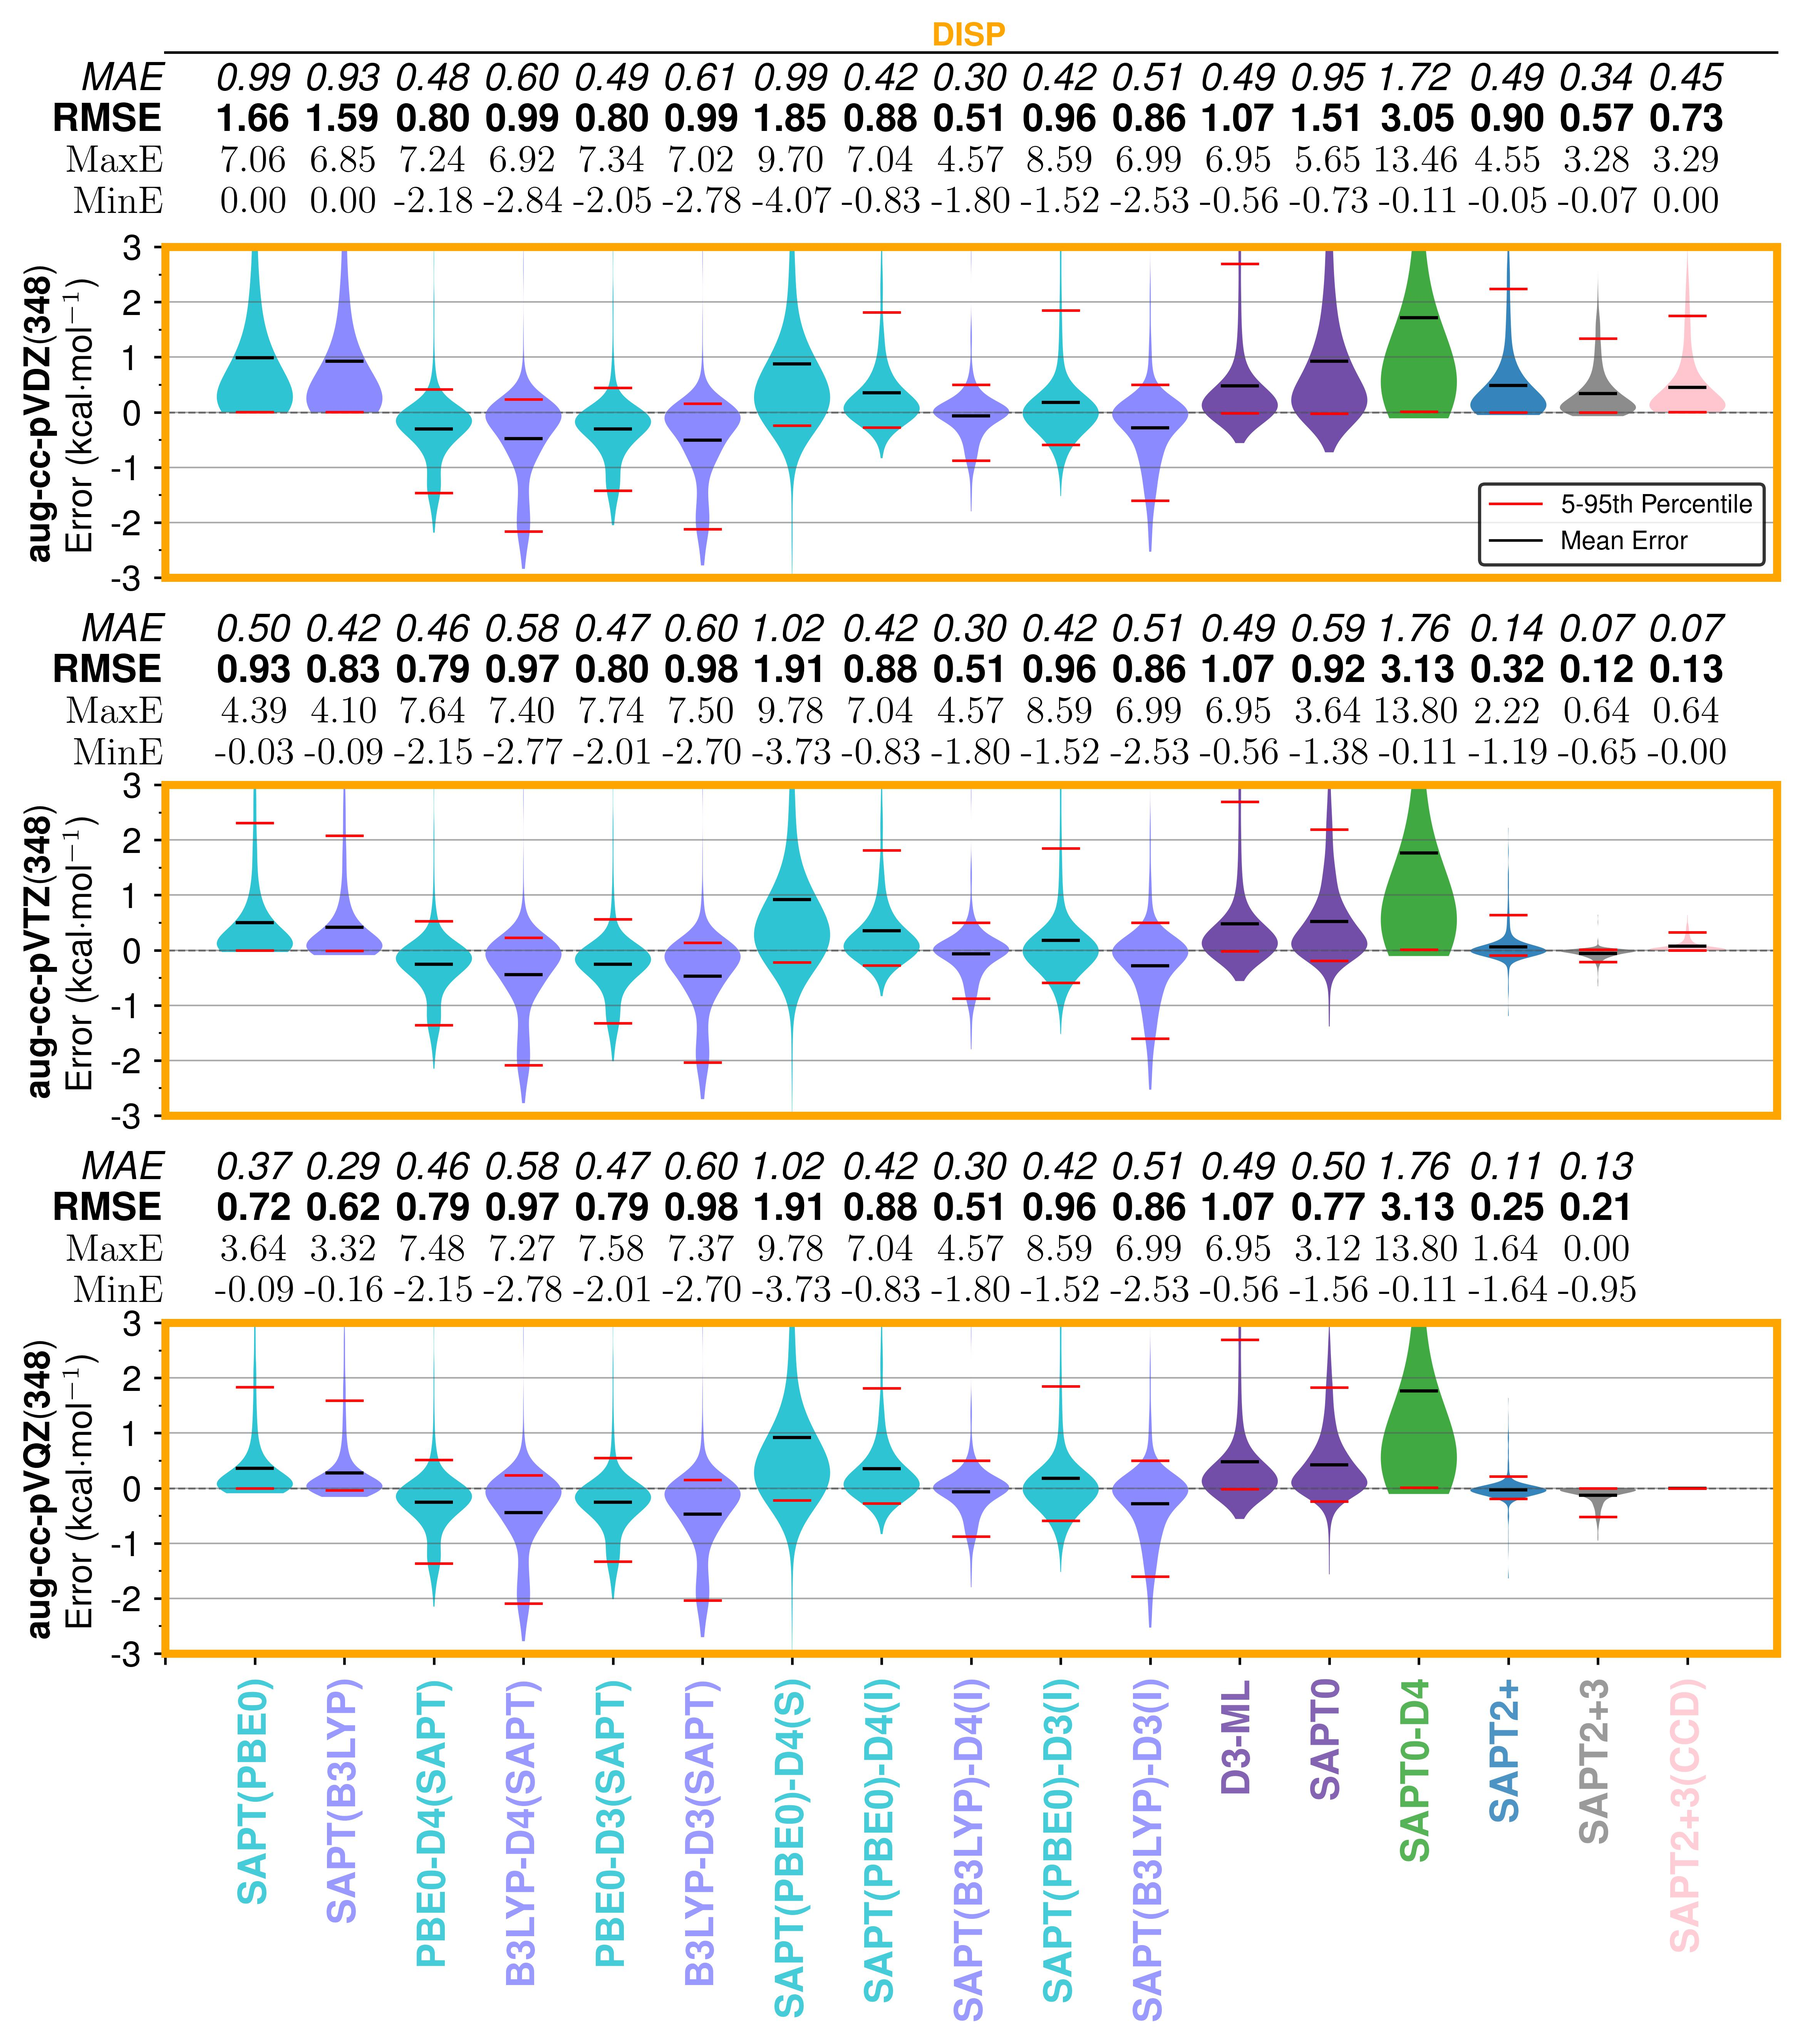
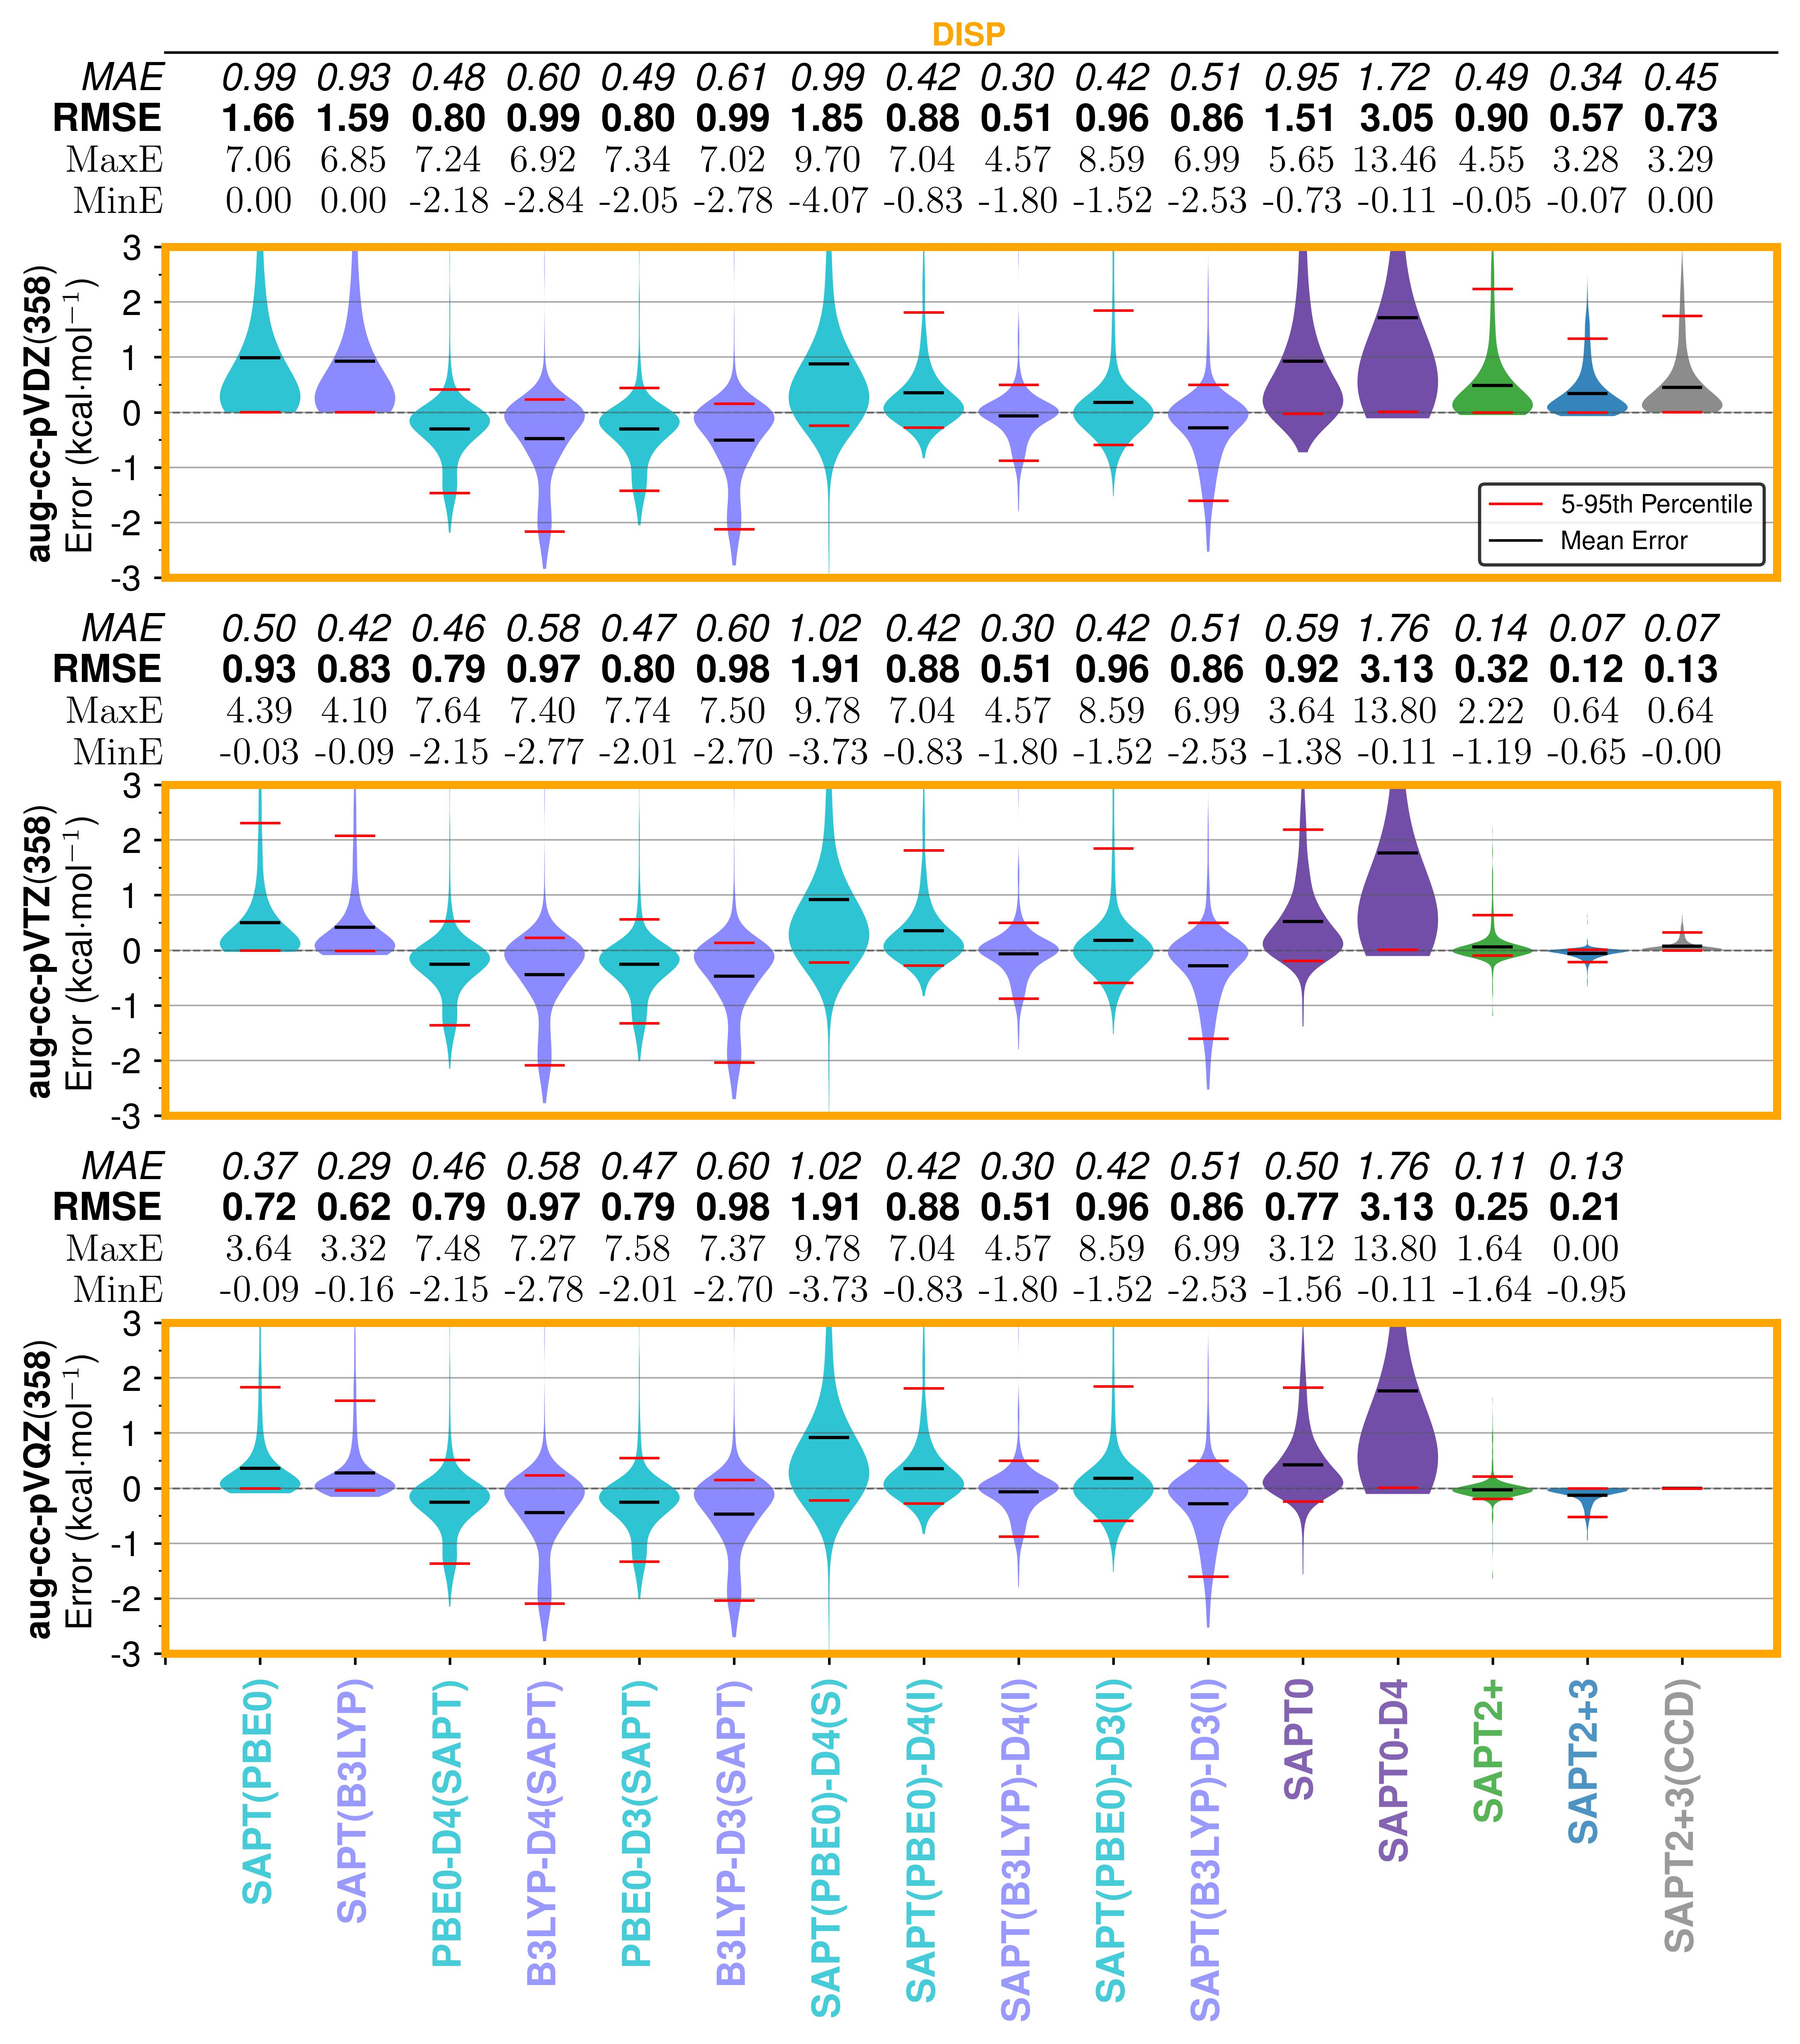
plot updates

diff --git a/src/plotting_saptdft.py b/src/plotting_saptdft.py
@@ -6149,25 +6149,7 @@ def violin_plots_multi_components(
     )
     cdsg_plot.error_statistics.violin_plot_table_multi_SAPT_components(
         dfs,
-        df_labels_and_columns_disp={
-            "SAPT(PBE0)": "SAPT(DFT) [PBE0] DISP ENERGY Error",
-            "SAPT(B3LYP)": "SAPT(DFT) [B3LYP] DISP ENERGY Error",
-            "PBE0-D4(SAPT)": "PBE0-D4 DISP ENERGY Error",
-            "B3LYP-D4(SAPT)": "B3LYP-D4 DISP ENERGY Error",
-            "PBE0-D3(SAPT)": "PBE0-D3 DISP ENERGY Error",
-            "B3LYP-D3(SAPT)": "B3LYP-D3 DISP ENERGY Error",
-            "SAPT(PBE0)-D4(S)": "SAPT(DFT)-D4 DISP ENERGY Error",
-            "SAPT(PBE0)-D4(I)": "SAPT(PBE0)-D4 INTER DISP ENERGY Error",
-            "SAPT(B3LYP)-D4(I)": "SAPT(B3LYP)-D4 INTER DISP ENERGY Error",
-            "SAPT(PBE0)-D3(I)": "SAPT(PBE0)-D3 INTER DISP ENERGY Error",
-            "SAPT(B3LYP)-D3(I)": "SAPT(B3LYP)-D3 INTER DISP ENERGY Error",
-            # "D3-ML": "D3-ML DISP ENERGY Error",
-            "SAPT0": "SAPT0 DISP ENERGY Error",
-            "SAPT0-D4": "SAPT0-D4 DISP ENERGY Error",
-            "SAPT2+": "SAPT2+ DISP ENERGY Error",
-            "SAPT2+3": "SAPT2+3 DISP ENERGY Error",
-            "SAPT2+3(CCD)": "SAPT2+3(CCD) DISP ENERGY Error",
-        },
+        df_labels_and_columns_disp=_disp_plot_labels(),
         colors=colors_disp_saptdftd4,
         usetex=True,
         legend_loc="lower right",
@@ -7275,34 +7257,7 @@ def violin_plots_multi_components_subset(
     )
     cdsg_plot.error_statistics.violin_plot_table_multi_SAPT_components(
         dfs,
-        df_labels_and_columns_disp={
-            "SAPT(PBE0)": "SAPT(DFT) [PBE0] DISP ENERGY Error",
-            "SAPT(B3LYP)": "SAPT(DFT) [B3LYP] DISP ENERGY Error",
-            # "SAPT(B2PLYP)": "SAPT(DFT) [B2PLYP] DISP ENERGY Error",
-            # "SAPT(WB97X)": "SAPT(DFT) [WB97X] DISP ENERGY Error",
-            # "SAPT(DFT)+D4": "SAPT(DFT)+D4 DISP ENERGY Error",
-            "PBE0-D4(SAPT)": "PBE0-D4 DISP ENERGY Error",
-            "B3LYP-D4(SAPT)": "B3LYP-D4 DISP ENERGY Error",
-            "PBE0-D3(SAPT)": "PBE0-D3 DISP ENERGY Error",
-            "B3LYP-D3(SAPT)": "B3LYP-D3 DISP ENERGY Error",
-            "SAPT(PBE0)-D4(S)": "SAPT(DFT)-D4 DISP ENERGY Error",
-            "SAPT(PBE0)-D4(I)": "SAPT(PBE0)-D4 INTER DISP ENERGY Error",
-            "SAPT(B3LYP)-D4(I)": "SAPT(B3LYP)-D4 INTER DISP ENERGY Error",
-            "SAPT(PBE0)-D3(I)": "SAPT(PBE0)-D3 INTER DISP ENERGY Error",
-            "SAPT(B3LYP)-D3(I)": "SAPT(B3LYP)-D3 INTER DISP ENERGY Error",
-            # "B2PLYP-D4": "B2PLYP-D4 DISP ENERGY Error",
-            # "WB97X-D4": "WB97X-D4 DISP ENERGY Error",
-            "D3-ML": "D3-ML DISP ENERGY Error",
-            "SAPT0": "SAPT0 DISP ENERGY Error",
-            "SAPT0-D4": "SAPT0-D4 DISP ENERGY Error",
-            # "sSAPT0": "SSAPT0 DISP ENERGY Error",
-            "SAPT2+": "SAPT2+ DISP ENERGY Error",
-            # "SAPT2+(3)": "SAPT2+(3) DISP ENERGY Error",
-            "SAPT2+3": "SAPT2+3 DISP ENERGY Error",
-            # "SAPT2+(CCD)": "SAPT2+(CCD) DISP ENERGY Error",
-            # "SAPT2+(3)(CCD)": "SAPT2+(3)(CCD) DISP ENERGY Error",
-            "SAPT2+3(CCD)": "SAPT2+3(CCD) DISP ENERGY Error",
-        },
+        df_labels_and_columns_disp=_disp_plot_labels(),
         colors=colors_disp_saptdftd4,
         usetex=True,
         legend_loc="lower right",
@@ -8443,6 +8398,7 @@ def plot_LoS_saptdft(
         return data
 
     limit_col = "B3LYP-D3 TOTAL ENERGY adz"
+    # Main Paper
     total_full_dfs = _load_or_build(
         "./dfs/LoS_total_full_dfs.pkl",
         lambda: _prepare_total_violin_dfs(
@@ -8478,31 +8434,8 @@ def plot_LoS_saptdft(
             subset_only=True,
         ),
     )
-    if presentation:
-        # # return
-        # violin_plots_multi_components_df_individual(df, limit_to_column_not_nan="D3-ML")
-        # # return
-        # violin_plots_multi_components_subset_individual(
-        #     df, limit_to_column_not_nan="D3-ML"
-        # )
-        # violin_plots_multi_individual(df)
-        # violin_plots_multi_components_df_individual(df)
-        # violin_plots_multi_subset_individual(df)
-        violin_plots_multi(df, dfs=total_full_dfs)
-        violin_plots_multi_subset(df, dfs=total_subset_dfs)
-        violin_plots_multi_components(df, dfs=components_full_dfs)
-        violin_plots_multi_components_subset(df, dfs=components_subset_dfs)
-    else:
-        # return
-        # return
-        violin_plots_multi_components_df_individual(df, limit_to_column_not_nan="D3-ML")
-        violin_plots_multi_individual(df)
-        # return
-        violin_plots_multi_components(df, limit_to_column_not_nan="D3-ML", slide=True)
-        return
-        violin_plots_multi(df)
-        violin_plots_multi_subset(df)
-        return
-        # return
-        return
+    violin_plots_multi(df, dfs=total_full_dfs)
+    violin_plots_multi_subset(df, dfs=total_subset_dfs)
+    violin_plots_multi_components(df, dfs=components_full_dfs)
+    violin_plots_multi_components_subset(df, dfs=components_subset_dfs)
     return
